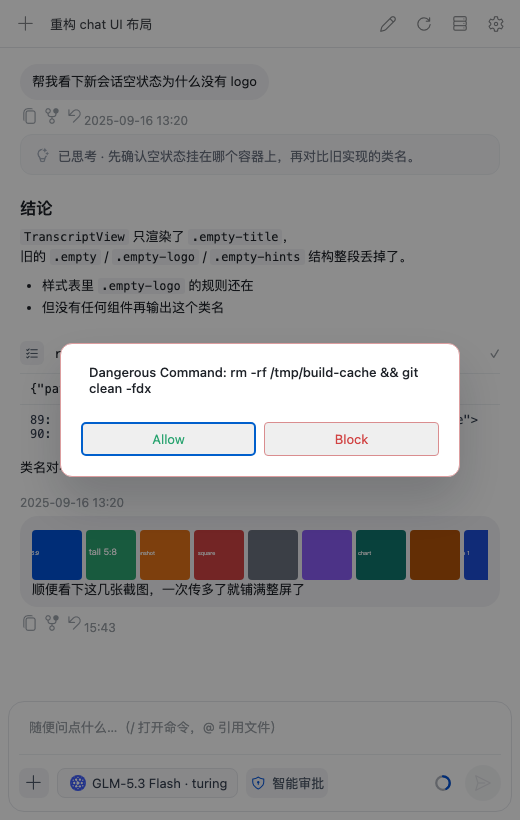
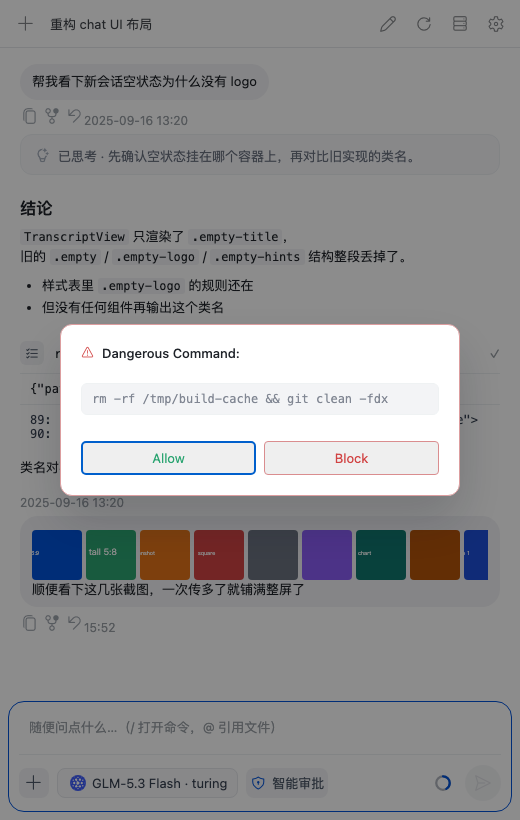
feat(chat): code-block rendering for the permission dialog's command body
pi's ui.select has no message parameter, so the permission gate packs
"Dangerous Command:\n\n  rm -rf ..." into the title and the generic dialog
rendered it as one giant heading. The host now splits a multi-line dialog
title into title + message on forward (only when the request carries no
message of its own), and the webview styles the danger dialog's message as
a monospace code block — the command reads like a command, the heading
stays a heading.

Changed region(s): [[0.0923, 0.3963, 0.8923, 0.6098], [0.9538, 0.8537, 0.9846, 0.8841]]

diff --git a/src/providers/chat/chat-session.ts b/src/providers/chat/chat-session.ts
@@ -613,13 +613,28 @@ export async function createChatSession(
   }
 
   function handleExtUiRequest(req: ExtensionUiRequest): void {
+    // Split a multi-line dialog title (e.g. the permission gate packs
+    // "Dangerous Command:\n\n  rm -rf ..." into `select`'s title, because pi's
+    // select has no message parameter) into title + message, so the payload
+    // renders as the dialog's body instead of a giant one-liner heading.
+    // Only fills `message` when the request doesn't carry one already.
+    function splitDialogTitleMessage(request: ExtensionUiRequest): ExtensionUiRequest {
+      const title = String(request.title ?? "");
+      const nl = title.indexOf("\n");
+      if (nl < 0 || request.message) return request;
+      const heading = title.slice(0, nl).trim();
+      const body = title.slice(nl + 1).trim();
+      if (!heading || !body) return request;
+      return { ...request, title: heading, message: body } as ExtensionUiRequest;
+    }
+
     if (
       req.method === "select" ||
       req.method === "confirm" ||
       req.method === "input" ||
       req.method === "editor"
     ) {
-      host.postMessage({ type: "dialog", request: req });
+      host.postMessage({ type: "dialog", request: splitDialogTitleMessage(req) });
     } else if (req.method === "setWidget") {
       if (!sessionDisposed)
         host.postMessage({

diff --git a/webview-vue/src/styles/chat.css b/webview-vue/src/styles/chat.css
@@ -4759,3 +4759,15 @@ body.ctrl-key .tool-block[data-has-file] > .tool-head:hover {
 .choice-btn.choice-block:hover {
   background: color-mix(in srgb, var(--pi-danger, #d14343) 14%, transparent);
 }
+
+/* 权限弹窗的命令正文：等宽 + 代码块底色（宿主把多行 title 拆出的 message） */
+.dialog-danger .dialog-message {
+  font-family: Menlo, Consolas, monospace;
+  font-size: var(--chat-fs-12);
+  background: var(--pi-bg-subtle);
+  border: 1px solid var(--pi-border-divider);
+  border-radius: 6px;
+  padding: 8px 10px;
+  white-space: pre-wrap;
+  word-break: break-all;
+}
